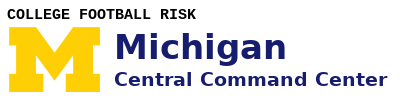
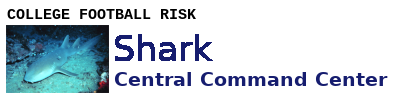
Go Bux. Decommichiganed

Changed region(s): [[0.0, 0.24, 0.72, 0.93]]

diff --git a/static/css/stylesheet.css b/static/css/stylesheet.css
@@ -3,9 +3,9 @@ body {
     text-align: center;
     width: 100%;
     margin: 0px;
-    background: #00274C;
-    --Michigan-blue: #00274C;
-    --Michigan-maize: #FFCB05;
+    background: #a7b1b7;
+    --Ohio-State-Scarlet: #ba0c2f;
+    --Ohio-State-Grey: #a7b1b7;
 }
 .body-container {
     margin: 10px auto;
@@ -53,16 +53,16 @@ button {
     font-size: 3em;
     line-height: 1em;
     margin: 5px;
-    text-shadow: 0px 0px 5px var(--Michigan-blue);
-    color: var(--Michigan-maize);
+    text-shadow: 0px 0px 5px var(--Ohio-State-Grey);
+    color: var(--Ohio-State-Scarlet);
 }
 .accept_orders {
     width: 90%;
     height: auto;
-/*    background: var(--Michigan-blue);
-    color: var(--Michigan-maize);
+/*    background: var(--Ohio-State-Scarlet);
+    color: var(--Ohio-State-Grey);
     border-radius: 10px;
-    border: solid 1px var(--Michigan-maize);
+    border: solid 1px var(--Ohio-State-Grey);
     outline: none;*/
 }
 
@@ -85,18 +85,18 @@ button {
     padding-top: 12px;
     padding-bottom: 12px;
     text-align: left;
-    background-color: var(--Michigan-blue);
-    color: var(--Michigan-maize);
+    background-color: var(--Ohio-State-Scarlet);
+    color: var(--Ohio-State-Grey);
 }
 #orders #sumrow {
     font-weight: bold;
-    background-color: var(--Michigan-maize);
-    color: var(--Michigan-blue);
+    background-color: var(--Ohio-State-Grey);
+    color: var(--Ohio-State-Scarlet);
 }
 #orders tfoot {
     font-weight: bold;
-    background-color: var(--Michigan-blue);
-    color: var(--Michigan-maize);
+    background-color: var(--Ohio-State-Scarlet);
+    color: var(--Ohio-State-Grey);
 }
 #orders tfoot tr:hover{
     background-color: inherit;
@@ -104,7 +104,7 @@ button {
 
 #date {
     height: 30px;
-    border: 1px solid var(--Michigan-blue);
+    border: 1px solid var(--Ohio-State-Scarlet);
     font-size: 18px;
     border-radius: 5px;
 }

diff --git a/flask_app.py b/flask_app.py
@@ -53,7 +53,7 @@ def homepage():
         log.error(f"Exception: {e}")
         template_params |= {
             "error_message": f"Sorry, you'll need to sign up for CFB Risk and join {THE_GOOD_GUYS} first.",
-            "link": "https://www.collegefootballrisk.com/"
+            "link": "https://collegefootballrisk.com/"
         }
         return build_template_response(cookie, ERROR_PAGE, template_params)
 

diff --git a/constants.py b/constants.py
@@ -3,7 +3,7 @@ from pathlib import Path
 
 config = dotenv_values('.env')
 
-POSTGAME = "Yay!" # "Yay!" or "Boo!" or None
+POSTGAME = None
 
 DOMAIN = config['DOMAIN']
 HTTP_PORT = config['HTTP_PORT']
